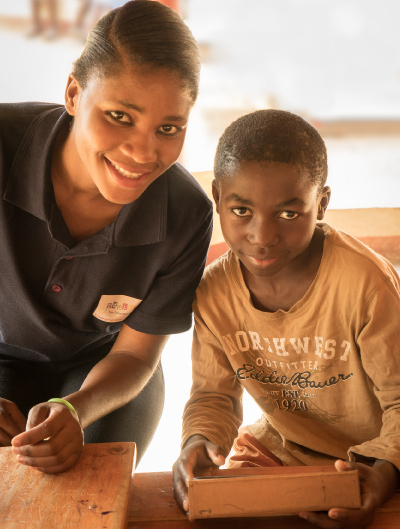
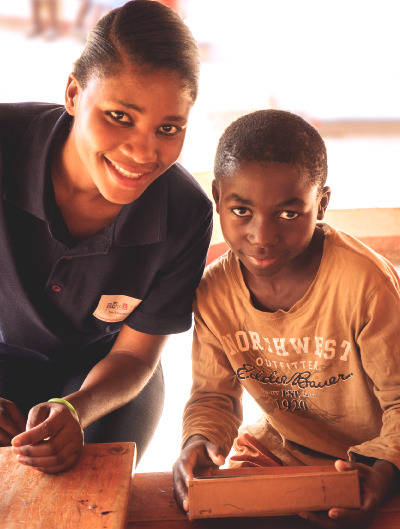
1. Added caption to thankyou page 2. Changed photo on thankyou page 3. Addjusted body margin-bottom so the bar doesn't show up between image and footer

diff --git a/fle_site/apps/main/static/css/donationpage.css b/fle_site/apps/main/static/css/donationpage.css
@@ -23,6 +23,10 @@ p{
   margin-bottom: 20px;
 }
 
+body{
+  margin-bottom:15%;
+}
+
 /*Donation*/
 
 .donation{
@@ -38,11 +42,15 @@ p{
 
 .caption a{
   color:rgba(255,255,255,0.5);
-  display: block;
+  display: inline-block;
   margin: 5% 0% 5% 0%;
+  padding:2em;
+  margin:-1.5em;
+  z-index: 1;
+  position: relative;
 }
 
-.caption a:hover , .caption a:active{
+.caption a:hover , .caption a:active , .caption a:focus{
   text-decoration: none;
 }
 
@@ -300,6 +308,7 @@ input[type="checkbox"]:checked + label span #check{
 }
 .give_thankyou_stories h1{
   font-size:2em;
+  font-weight: 700;
 }
 .give_thankyou_stories p{
   color:#FFFFFF;
@@ -332,8 +341,8 @@ input[type="checkbox"]:checked + label span #check{
 }
 .story_2{
   background: linear-gradient(
-      rgba(0, 0, 0, 0.45), 
-      rgba(0, 0, 0, 0.45)
+      rgba(0, 0, 0, 0.55), 
+      rgba(0, 0, 0, 0.55)
     ), url( ../img/Butaw_Liberia.jpg );
 }
 .story_2 .story_link{
@@ -393,6 +402,9 @@ input[type="checkbox"]:checked + label span #check{
 
 
 @media screen and (min-width: 565px) {
+  body{
+    margin-bottom:10%;
+  }
   .donation-interface {
     padding-top:15%;
   }
@@ -412,6 +424,10 @@ input[type="checkbox"]:checked + label span #check{
 
 /*Tablet*/
 @media screen and (min-width: 720px) {
+  body{
+  margin-bottom:8%;
+  }
+
   .donation{
       background: #FFF url( ../img/Donation_Interface_bg_tablet_min.jpg) center bottom no-repeat;
       background-size: cover;
@@ -430,17 +446,6 @@ input[type="checkbox"]:checked + label span #check{
   }
 }
 
-@media screen and (min-width: 770px) {
-  .donation{
-    background-position-y:-50px;
-  }
-}
-
-@media screen and (min-width: 800px) {
-  .donation{
-    background-position-y:-100px;
-  }
-}
 
 @media screen and (min-width: 870px) {
   .donation{
@@ -459,11 +464,13 @@ input[type="checkbox"]:checked + label span #check{
 
 /*Mid-size*/
 @media screen and (min-width: 992px) {
+  body{
+    margin-bottom:5.2%;
+  } 
   .donation-interface {
     padding-top:10%;
     padding-bottom: 60%;
   }
-
   .donation{
     background-position-y:-250px;
   }
@@ -490,6 +497,9 @@ input[type="checkbox"]:checked + label span #check{
   }
 
   /*Thank You Page*/
+  .thankyou_badge{
+    width:30%;
+  }
   .give_image img{
     height: 600px;
   }
@@ -514,8 +524,17 @@ input[type="checkbox"]:checked + label span #check{
   }
 }
 
+@media screen and (min-width: 1130px) {
+  body{
+    margin-bottom:4.8%;
+  } 
+}
+
 /*Large Screens*/
 @media screen and (min-width: 1200px) {
+  body{
+    margin-bottom:2.5%;
+  }
   .donation-interface{
     padding-top:20%;
     padding-bottom:30%;
@@ -557,6 +576,9 @@ input[type="checkbox"]:checked + label span #check{
 }
 
 @media screen and (min-width: 1450px) { 
+  body{
+    margin-bottom:2.2%;
+  }
   .donation-interface{
     padding-top:20%;
     padding-bottom:50%;
@@ -567,10 +589,10 @@ input[type="checkbox"]:checked + label span #check{
 
   /*Thank You Page*/
   .give_image img{
-    height: 840px;
+    height: 880px;
   }
    .give_thankyou_stories .story{
-    height:420px;
+    height:440px;
   }
   .give_thankyou_stories h1{
     font-weight: 700;
@@ -599,6 +621,9 @@ input[type="checkbox"]:checked + label span #check{
 }
 
 @media screen and (min-width: 1650px) { 
+  body{
+    margin-bottom:2%;
+  }
   .donation-interface{
     padding-top:20%;
     padding-bottom:75%;
@@ -639,5 +664,21 @@ input[type="checkbox"]:checked + label span #check{
     height:500px;
   }
 }
+
+
+@media screen and (min-width: 1800px) { 
+  body{
+    margin-bottom:1.9%;
+  }
+
+  /*Thank You Page*/
+  .give_image img{
+    height: 1100px;
+  }
+   .give_thankyou_stories .story{
+    height:550px;
+  }
+}
+
 
 

diff --git a/fle_site/apps/main/templates/main/donationpage_thankyou.html b/fle_site/apps/main/templates/main/donationpage_thankyou.html
@@ -35,7 +35,10 @@
 	</div>
 	<div class="row">
 		<div class="col-md-5 give_image">
-				<img src="{% static 'img/give_thankyou.jpg' %}" alt="Logo">
+			<img src="{% static 'img/give_thankyou.jpg' %}" alt="Logo">
+			<div class="caption">
+				<a target="_blank" href="http://www.edulution.org/about/#story ">Deployment in remote area in Zambia | Edulution </a>
+			</div>
 		</div>
 		<div class="col-md-7 give_thankyou_stories">
 			<div class="row">
